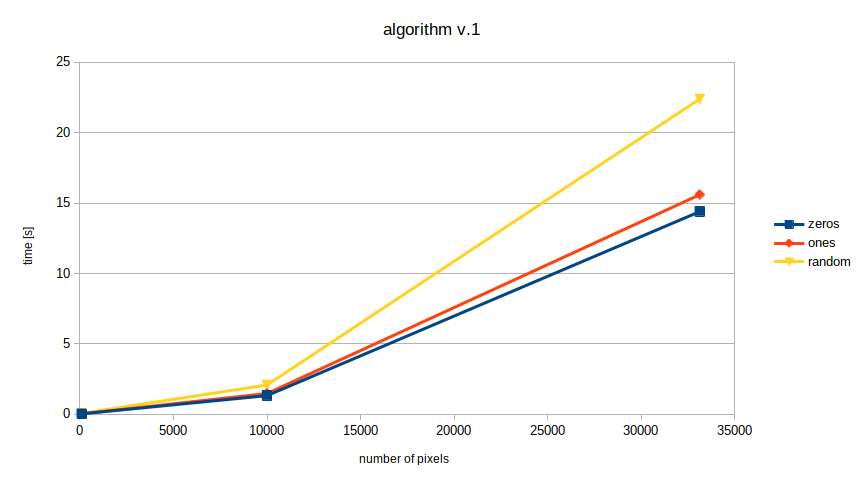
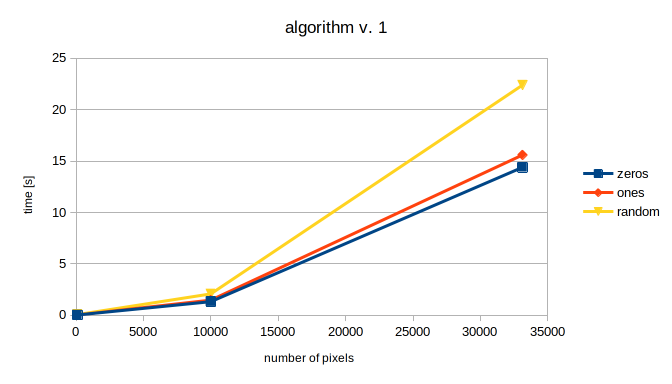
docs: performance of v 2

diff --git a/README.md b/README.md
@@ -6,18 +6,56 @@ If you don't know why you are here, in this repo, just leave. This repo should b
 ## Performance
 
 #### Algorithm version: 1 (5e3c7d9)
-| input size  | zeros | ones | random |
-|-------------|-------|----- |--------|
-| 100         | 0.04  | 0.04 | 0.07   |
-| 10000       | 1.33  | 1.48 | 2.088  |
-| 33124       | 14.4  | 15.6 | 22.4   |
+| input size  | ones | zeros | random |
+|-------------|----- |-------|--------|
+| 100         | 0.04 | 0.04  | 0.07   |
+| 10000       | 1.48 | 1.33  | 2.088  |
+| 33124       | 15.6 | 14.4  | 22.4   |
 
 
 ![alt text](./readme-img/performance-v1.png "algorithm version: 1")
 
 
-## Useful
+#### Algorithm version: 2 (15c994b)
+| input size  | ones  | zeros | random |
+|-------------|-------|-------|--------|
+| 100         | 0.04  | 0.04  | 0.04   |
+| 10000       | 0.06  | 0.52  | 0.7    |
+| 33124       | 0.09  | 3     | 4.9    |
 
+
+![alt text](./readme-img/performance-v2.png "algorithm version: 1")
+
+![alt text](./readme-img/performance-v1vsv2.png "algorithm version change: 1 => 2")
+
+
+## Useful things
+
+Compare result with predefined outputs
 ```
 node ./src/index.js sample/input-10-random-100x100-10000.txt > /dev/null; diff sample/output-10-random-100x100-10000.txt $( ls -t output/*.txt | head -1)
+```
+
+
+Run performance test
+```
+time node ./src/index.js sample/input-03-many-ones-10x10-100.txt
+time node ./src/index.js sample/input-04-many-ones-100x100-10000.txt
+time node ./src/index.js sample/input-05-many-ones-182x182-33124.txt
+
+time node ./src/index.js sample/input-06-many-zeros-10x10-100.txt
+time node ./src/index.js sample/input-07-many-zeros-100x100-10000.txt
+time node ./src/index.js sample/input-08-many-zeros-182x182-33124.txt
+
+time node ./src/index.js sample/input-09-random-10x10-100.txt
+time node ./src/index.js sample/input-10-random-100x100-10000.txt
+time node ./src/index.js sample/input-11-random-182x182-33124.txt
+```
+
+
+Debug performance
+```
+node --prof ./src/index.js sample/input-11-random-182x182-33124.txt
+
+node --prof-process isolate-0x54ca060-2077123-v8.log > process.txt;
 ```
